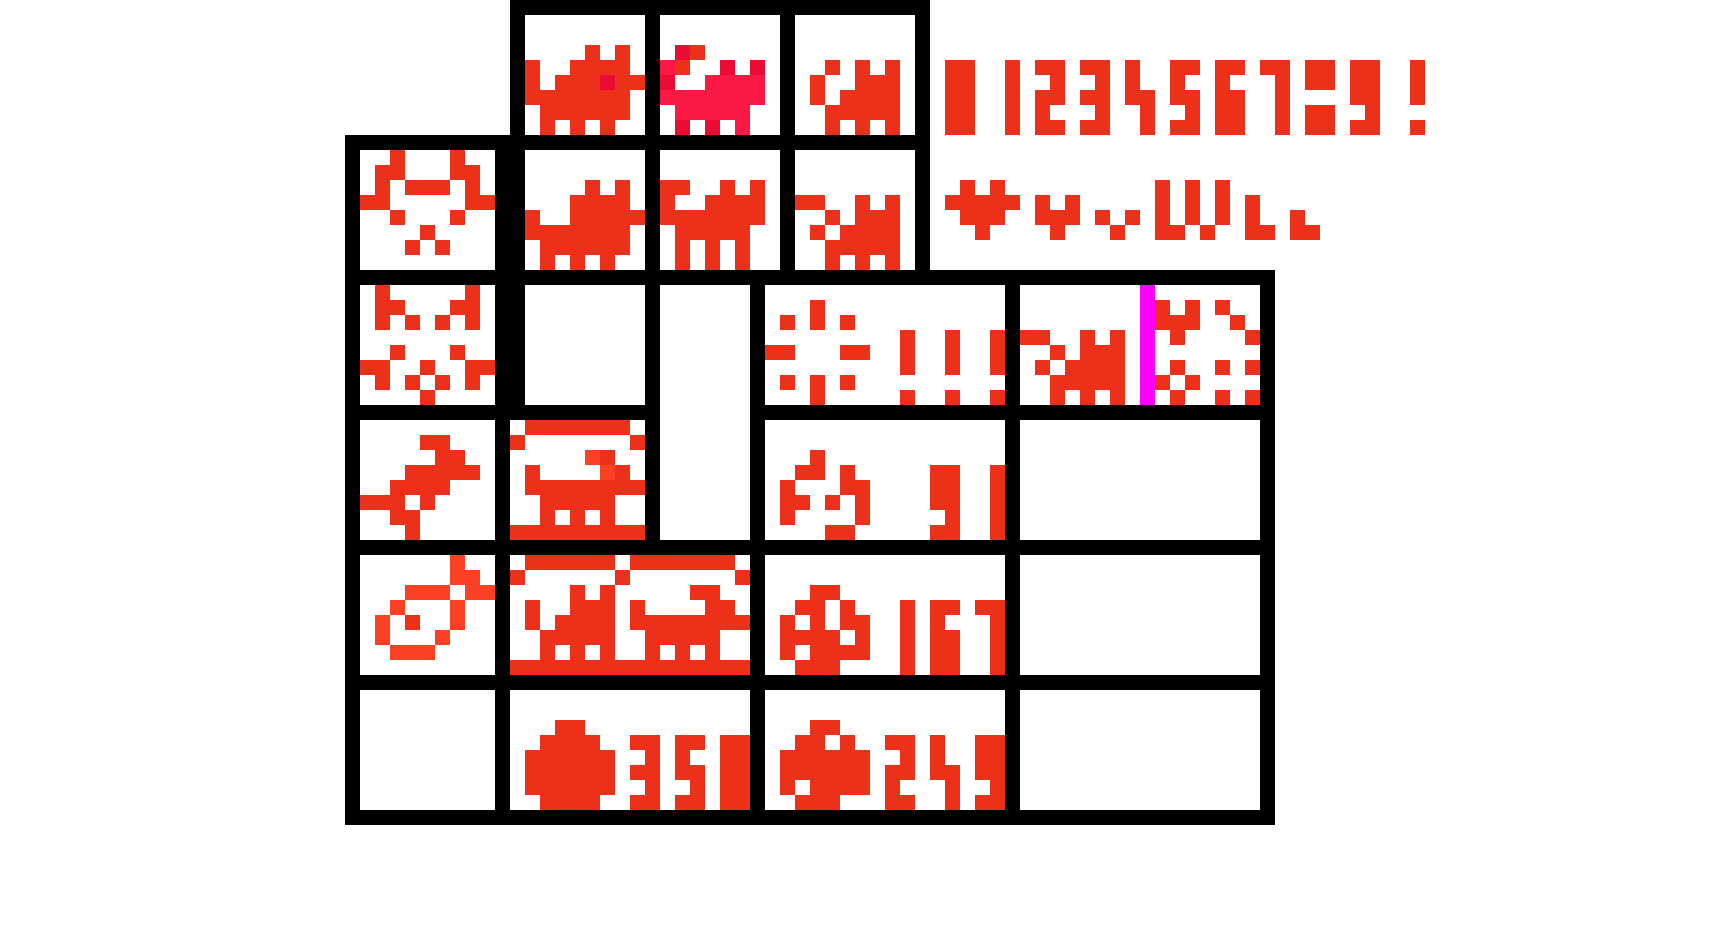
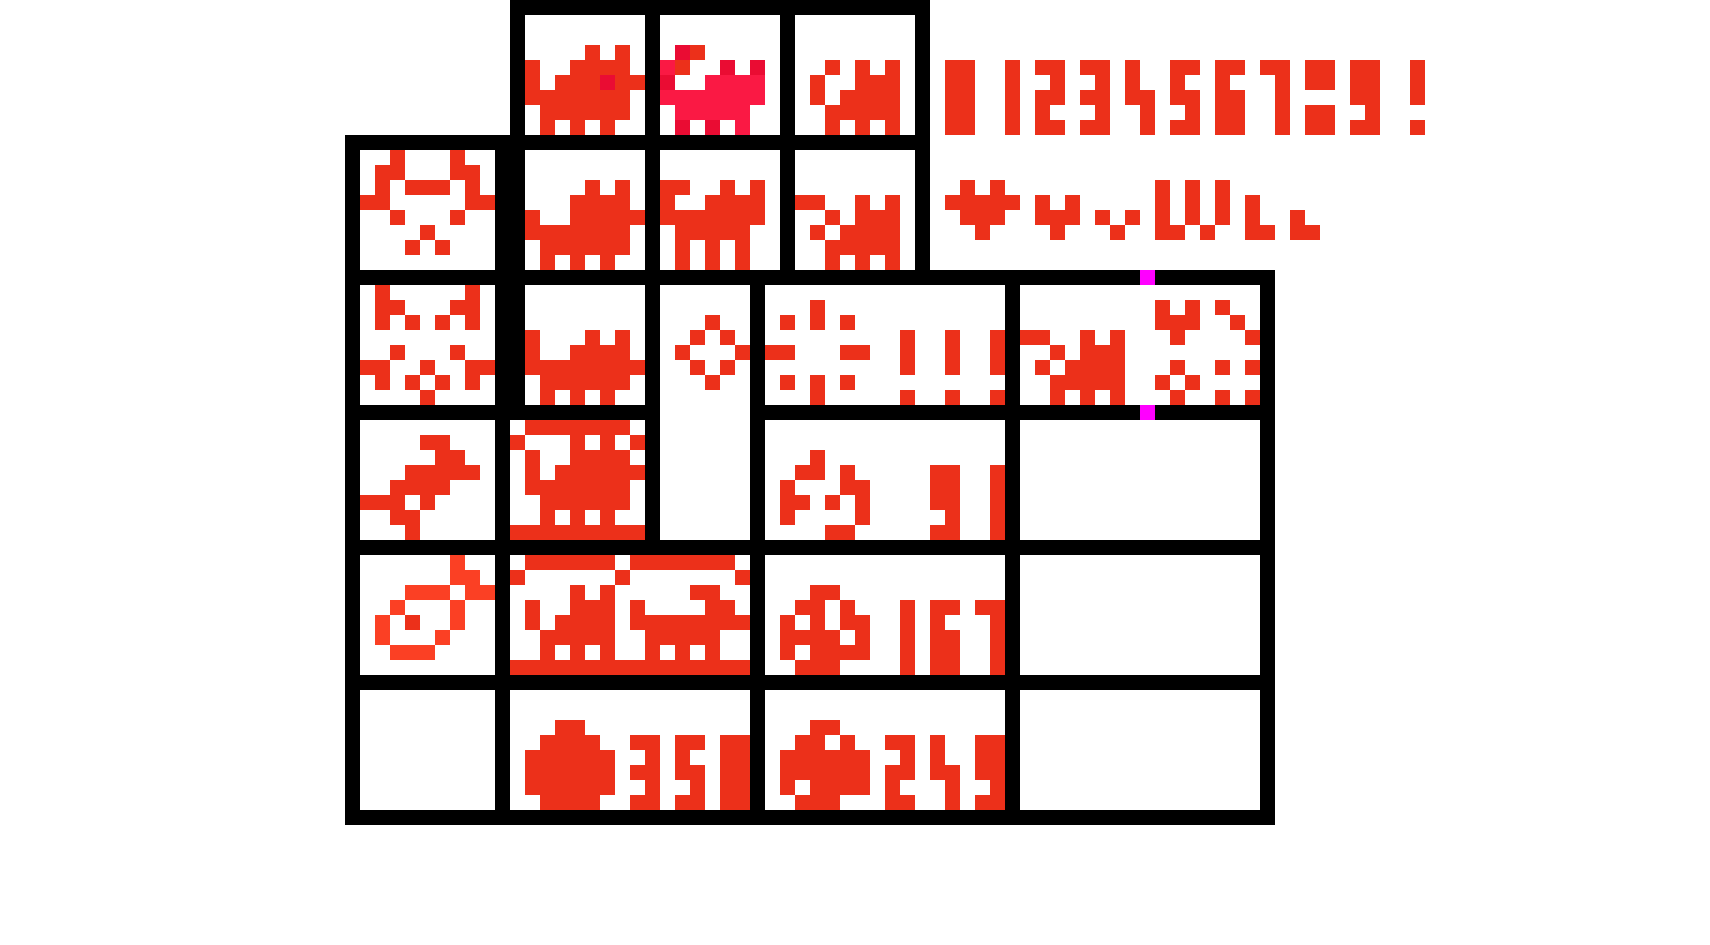
feat: egg hatching design and amine demo

Changed region(s): [[0.3099, 0.3376, 0.4339, 0.4296], [0.6509, 0.2762, 0.6819, 0.4603], [0.3099, 0.4603, 0.4029, 0.5524]]

diff --git a/fw/Core/Hitcon/App/tama_src/screen_simu.cpp b/fw/Core/Hitcon/App/tama_src/screen_simu.cpp
@@ -5,9 +5,14 @@
 #define CAT_IDLE_FRAME_COUNT 2
 #define DOG_IDLE_FRAME_COUNT 2
 #define SELECT_CHARACTER_FRAME_COUNT 2
+#define HATCH_WARNING_REPEAT_SHINE_COUNT 3
+#define HATCH_STATUS_FRAME_COUNT 4
 #define NEW_SCREEN NULL
 #define NUM_AREA_WIDTH 8
 #define NUM_AREA_HEIGHT 5
+#define EGG_AREA_WIDTH 8
+#define EGG_AREA_HEIGHT 8
+#define HATCH_START_COUNT 400
 typedef unsigned char uint8_t;
 
 #include <unistd.h>
@@ -34,8 +39,14 @@ using hitcon::app::tama::components::m_dog_idle1;
 using hitcon::app::tama::components::m_dog_idle2;
 using hitcon::app::tama::components::m_select_cursor;
 using hitcon::app::tama::components::m_select_print_all_character;
+using hitcon::app::tama::egg_icon::m_egg_0_percent_up;
+using hitcon::app::tama::egg_icon::m_egg_25_percent_up;
+using hitcon::app::tama::egg_icon::m_egg_50_percent_up;
+using hitcon::app::tama::egg_icon::m_egg_75_percent_up;
+using hitcon::app::tama::egg_icon::m_egg_hatch_shinning1;
+using hitcon::app::tama::egg_icon::m_egg_hatch_shinning2;
+using hitcon::app::tama::menu_icon::icon_important;
 using hitcon::app::tama::menu_icon::num_icon;
-
 /**
  * @brief The function of stack const component onto a base layer
  *
@@ -125,6 +136,7 @@ void show_anime_with_delay(const uint8_t** frame_collection, int frame_count,
   }
 }
 
+/** component part */
 const uint8_t* get_number_component(int target_num) {
   // check boundary of input
   if (target_num > 999) {
@@ -199,6 +211,168 @@ const uint8_t* get_number_component(int target_num) {
     base = stack_target_offset(num_icon[digit_100x], base,
                                digit_100x_component_info, my_base_info);
     digit_count--;
+  }
+
+  return base;
+}
+
+const uint8_t* get_warning_component() {
+  // similar to get_number_component, but only return a warning icon
+  base_info my_base_info = {
+      .width = 8,
+      .height = 5,
+  };
+  component_info warning_component_info_1 = {
+      .x_len = 2,
+      .y_len = 5,
+      .x_offset = 0,
+      .y_offset = 0,
+  };
+  component_info warning_component_info_2 = {
+      .x_len = 2,
+      .y_len = 5,
+      .x_offset = 3,
+      .y_offset = 0,
+  };
+  component_info warning_component_info_3 = {
+      .x_len = 2,
+      .y_len = 5,
+      .x_offset = 6,
+      .y_offset = 0,
+  };
+  // stack warning icon
+  uint8_t* base = stack_target_offset(icon_important, NULL,
+                                      warning_component_info_1, my_base_info);
+  base = stack_target_offset(icon_important, base, warning_component_info_2,
+                             my_base_info);
+  base = stack_target_offset(icon_important, base, warning_component_info_3,
+                             my_base_info);
+  // return the base with warning icon
+  return base;
+}
+
+/* combine hatch component with num component */
+const uint8_t* get_egg_component(int percentage) {
+  // check boundary of input
+  if (percentage > 100) {
+    percentage = 100;
+  }
+  if (percentage < 0) {
+    percentage = 0;
+  }
+
+  base_info my_base_info = {
+      .width = EGG_AREA_WIDTH,
+      .height = EGG_AREA_HEIGHT,
+  };
+
+  component_info egg_component_info = {
+      .x_len = EGG_AREA_WIDTH,
+      .y_len = EGG_AREA_HEIGHT,
+      .x_offset = 0,
+      .y_offset = 0,
+  };
+
+  uint8_t* base;
+  if (percentage <= 25) {
+    base = stack_target_offset(m_egg_0_percent_up, NULL, egg_component_info,
+                               my_base_info);
+  } else if (percentage <= 50) {
+    base = stack_target_offset(m_egg_25_percent_up, NULL, egg_component_info,
+                               my_base_info);
+  } else if (percentage <= 75) {
+    base = stack_target_offset(m_egg_50_percent_up, NULL, egg_component_info,
+                               my_base_info);
+  } else if (percentage <= 100) {
+    base = stack_target_offset(m_egg_75_percent_up, NULL, egg_component_info,
+                               my_base_info);
+  }
+
+  return base;
+}
+
+/** frame part */
+const uint8_t* get_hatch_status_frame(int remaining_count) {
+  // check boundary of input
+  if (remaining_count > 999) {
+    remaining_count = 999;
+  }
+
+  base_info my_base_info = {
+      .width = DISPLAY_WIDTH,
+      .height = DISPLAY_HEIGHT,
+  };
+
+  component_info egg_component_info = {
+      .x_len = EGG_AREA_WIDTH,
+      .y_len = EGG_AREA_HEIGHT,
+      .x_offset = 0,
+      .y_offset = 0,
+  };
+
+  component_info num_component_info = {
+      .x_len = NUM_AREA_WIDTH,
+      .y_len = NUM_AREA_HEIGHT,
+      .x_offset = 8,
+      .y_offset = 3,
+  };
+
+  // percentage of egg hatching
+  int percentage = remaining_count * 100 / HATCH_START_COUNT;
+  if (percentage < 0) {
+    percentage = 0;
+  }
+  if (percentage > 100) {
+    percentage = 100;
+  }
+
+  uint8_t* base;
+  // stack egg icon
+  base = stack_target_offset(get_egg_component(percentage), NULL,
+                             egg_component_info, my_base_info);
+  // stack number icon
+  base = stack_target_offset(get_number_component(remaining_count), base,
+                             num_component_info, my_base_info);
+
+  return base;
+}
+
+// stack warning frame and icon_important
+const uint8_t* get_hatch_born_warning_frame(int frame) {
+  // check boundary of input
+  if (frame < 0 || frame > 1) {
+    frame = 0;
+  }
+
+  base_info my_base_info = {
+      .width = DISPLAY_WIDTH,
+      .height = DISPLAY_HEIGHT,
+  };
+
+  component_info egg_component_info = {
+      .x_len = EGG_AREA_WIDTH,
+      .y_len = EGG_AREA_HEIGHT,
+      .x_offset = 0,
+      .y_offset = 0,
+  };
+  component_info warning_component_info = {
+      .x_len = NUM_AREA_WIDTH,
+      .y_len = NUM_AREA_HEIGHT,
+      .x_offset = 8,
+      .y_offset = 3,
+  };
+
+  uint8_t* base;
+  if (frame == 0) {
+    base = stack_target_offset(m_egg_hatch_shinning1, NULL, egg_component_info,
+                               my_base_info);
+    base = stack_target_offset(get_warning_component(), base,
+                               warning_component_info, my_base_info);
+  } else {
+    base = stack_target_offset(m_egg_hatch_shinning2, NULL, egg_component_info,
+                               my_base_info);
+    base = stack_target_offset(get_warning_component(), base,
+                               warning_component_info, my_base_info);
   }
 
   return base;
@@ -329,6 +503,53 @@ void select_character(int repeat_count) {
   }
 }
 
+void egg_hatch(int repeat_count) {
+  component_info component_info = {
+      .x_len = 16,
+      .y_len = 8,
+      .x_offset = 0,
+      .y_offset = 0,
+  };
+  base_info screen_info = {
+      .width = 16,
+      .height = 8,
+  };
+
+  // demo case:
+  // (remaining_count)
+  // 390 > 290 > 190 > 90 > (shine1, shine2)x repeat_shine_count
+
+  // add to frame_collection
+  const uint8_t* frame_collection[HATCH_STATUS_FRAME_COUNT +
+                                  2 * HATCH_WARNING_REPEAT_SHINE_COUNT];
+  int remaining_count = 390;
+  for (int j = 0; j < HATCH_STATUS_FRAME_COUNT; ++j) {
+    frame_collection[j] = get_hatch_status_frame(remaining_count);
+    remaining_count -= 100;
+  }
+  for (int j = 0; j < HATCH_WARNING_REPEAT_SHINE_COUNT; ++j) {
+    frame_collection[HATCH_STATUS_FRAME_COUNT + j * 2] =
+        get_hatch_born_warning_frame(0);
+    frame_collection[HATCH_STATUS_FRAME_COUNT + j * 2 + 1] =
+        get_hatch_born_warning_frame(1);
+  }
+
+  // show animation
+  for (int i = 0; i < repeat_count; ++i) {
+    show_anime_with_delay(
+        frame_collection,
+        HATCH_STATUS_FRAME_COUNT + 2 * HATCH_WARNING_REPEAT_SHINE_COUNT,
+        SLEEP_US);
+  }
+
+  // loop to release all allocated memory
+  for (int i = 0;
+       i < HATCH_STATUS_FRAME_COUNT + 2 * HATCH_WARNING_REPEAT_SHINE_COUNT;
+       ++i) {
+    delete[] frame_collection[i];
+  }
+}
+
 void num_test(int repeat_count) {
   const int frame_count = 5;
   component_info num_area_component_info = {
@@ -373,19 +594,25 @@ int main() {
   int repeat_count = 3;
   int repeat_once = 1;
 
-  while (1) {
-    // cat idle demo
-    cat_idle(repeat_count);
+  // cat idle demo
+  std::cout << "Cat Idle Demo:\n";
+  cat_idle(repeat_count);
 
-    // dog idle demo
-    dog_idle(repeat_count);
+  // dog idle demo
+  std::cout << "Dog Idle Demo:\n";
+  dog_idle(repeat_count);
 
-    // selection demo
-    select_character(repeat_count);
+  // selection demo
+  std::cout << "Select Character Demo:\n";
+  select_character(repeat_count);
 
-    // number icon demo
-    num_test(repeat_once);
-  }
+  // number icon demo
+  std::cout << "Number Icon Demo:\n";
+  num_test(repeat_once);
+
+  // egg hatch demo
+  std::cout << "Egg Hatch Demo:\n";
+  egg_hatch(repeat_once);
 
   return 0;
 }

diff --git a/fw/Core/Hitcon/App/tama_src/screens.h b/fw/Core/Hitcon/App/tama_src/screens.h
@@ -7,6 +7,8 @@
 #define SELECT_RIGHT_X_OFFSET 8
 #define NUM_WIDTH 2
 #define NUM_HEIGHT 5
+#define EGG_WIDTH 8
+#define EGG_HEIGHT 8
 
 // m_xxx = material xxx
 
@@ -83,6 +85,69 @@ constexpr uint8_t m_select_cursor[SELECT_WIDTH * SELECT_HEIGHT] = {
 
 }  // namespace components
 
+namespace egg_icon {
+constexpr uint8_t m_egg_75_percent_up[EGG_WIDTH * EGG_HEIGHT] = {
+    0, 0, 0, 0, 0, 0, 0, 0,  //
+    0, 0, 0, 0, 0, 0, 0, 0,  //
+    0, 0, 0, 1, 1, 0, 0, 0,  //
+    0, 0, 1, 1, 1, 1, 0, 0,  //
+    0, 1, 1, 1, 1, 1, 1, 0,  //
+    0, 1, 1, 1, 1, 1, 1, 0,  //
+    0, 1, 1, 1, 1, 1, 1, 0,  //
+    0, 0, 1, 1, 1, 1, 0, 0,  //
+};
+constexpr uint8_t m_egg_50_percent_up[EGG_WIDTH * EGG_HEIGHT] = {
+    0, 0, 0, 0, 0, 0, 0, 0,  //
+    0, 0, 0, 0, 0, 0, 0, 0,  //
+    0, 0, 0, 1, 1, 0, 0, 0,  //
+    0, 0, 1, 1, 0, 1, 0, 0,  //
+    0, 1, 1, 1, 1, 1, 1, 0,  //
+    0, 1, 1, 1, 1, 1, 1, 0,  //
+    0, 1, 0, 1, 1, 1, 1, 0,  //
+    0, 0, 1, 1, 1, 0, 0, 0,  //
+};
+constexpr uint8_t m_egg_25_percent_up[EGG_WIDTH * EGG_HEIGHT] = {
+    0, 0, 0, 0, 0, 0, 0, 0,  //
+    0, 0, 0, 0, 0, 0, 0, 0,  //
+    0, 0, 0, 1, 1, 0, 0, 0,  //
+    0, 0, 1, 1, 0, 1, 0, 0,  //
+    0, 1, 0, 1, 0, 1, 1, 0,  //
+    0, 1, 1, 1, 1, 0, 1, 0,  //
+    0, 1, 0, 1, 1, 1, 1, 0,  //
+    0, 0, 1, 1, 1, 0, 0, 0,  //
+};
+constexpr uint8_t m_egg_0_percent_up[EGG_WIDTH * EGG_HEIGHT] = {
+    0, 0, 0, 0, 0, 0, 0, 0,  //
+    0, 0, 0, 0, 0, 0, 0, 0,  //
+    0, 0, 0, 1, 0, 0, 0, 0,  //
+    0, 0, 1, 1, 0, 1, 0, 0,  //
+    0, 1, 0, 0, 0, 1, 1, 0,  //
+    0, 1, 1, 0, 1, 0, 1, 0,  //
+    0, 1, 0, 0, 0, 0, 1, 0,  //
+    0, 0, 0, 0, 1, 1, 0, 0,  //
+};
+constexpr uint8_t m_egg_hatch_shinning1[EGG_WIDTH * EGG_HEIGHT] = {
+    0, 0, 0, 0, 0, 0, 0, 0,  //
+    0, 0, 0, 1, 0, 0, 0, 0,  //
+    0, 1, 0, 1, 0, 1, 0, 0,  //
+    0, 0, 0, 0, 0, 0, 0, 0,  //
+    1, 1, 0, 0, 0, 1, 1, 0,  //
+    0, 0, 0, 0, 0, 0, 0, 0,  //
+    0, 1, 0, 1, 0, 1, 0, 0,  //
+    0, 0, 0, 1, 0, 0, 0, 0,  //
+};
+constexpr uint8_t m_egg_hatch_shinning2[EGG_WIDTH * EGG_HEIGHT] = {
+    0, 0, 0, 0, 0, 0, 0, 0,  //
+    0, 0, 0, 0, 0, 0, 0, 0,  //
+    0, 0, 0, 1, 0, 0, 0, 0,  //
+    0, 0, 1, 0, 1, 0, 0, 0,  //
+    0, 1, 0, 0, 0, 1, 0, 0,  //
+    0, 0, 1, 0, 1, 0, 0, 0,  //
+    0, 0, 0, 1, 0, 0, 0, 0,  //
+    0, 0, 0, 0, 0, 0, 0, 0,  //
+};
+}  // namespace egg_icon
+
 namespace menu_icon {
 constexpr uint8_t icon_zero[NUM_WIDTH * NUM_HEIGHT] = {
     1, 1,  //
@@ -157,7 +222,17 @@ constexpr uint8_t icon_nine[NUM_WIDTH * NUM_HEIGHT] = {
 const uint8_t *num_icon[10] = {icon_zero,  icon_one,  icon_two, icon_three,
                                icon_four,  icon_five, icon_six, icon_seven,
                                icon_eight, icon_nine};
+
+constexpr uint8_t icon_important[NUM_WIDTH * NUM_HEIGHT] = {
+    0, 1,  //
+    0, 1,  //
+    0, 1,  //
+    0, 0,  //
+    0, 1,  //
+};
+
 }  // namespace menu_icon
+
 }  // namespace tama
 }  // namespace app
 }  // namespace hitcon
